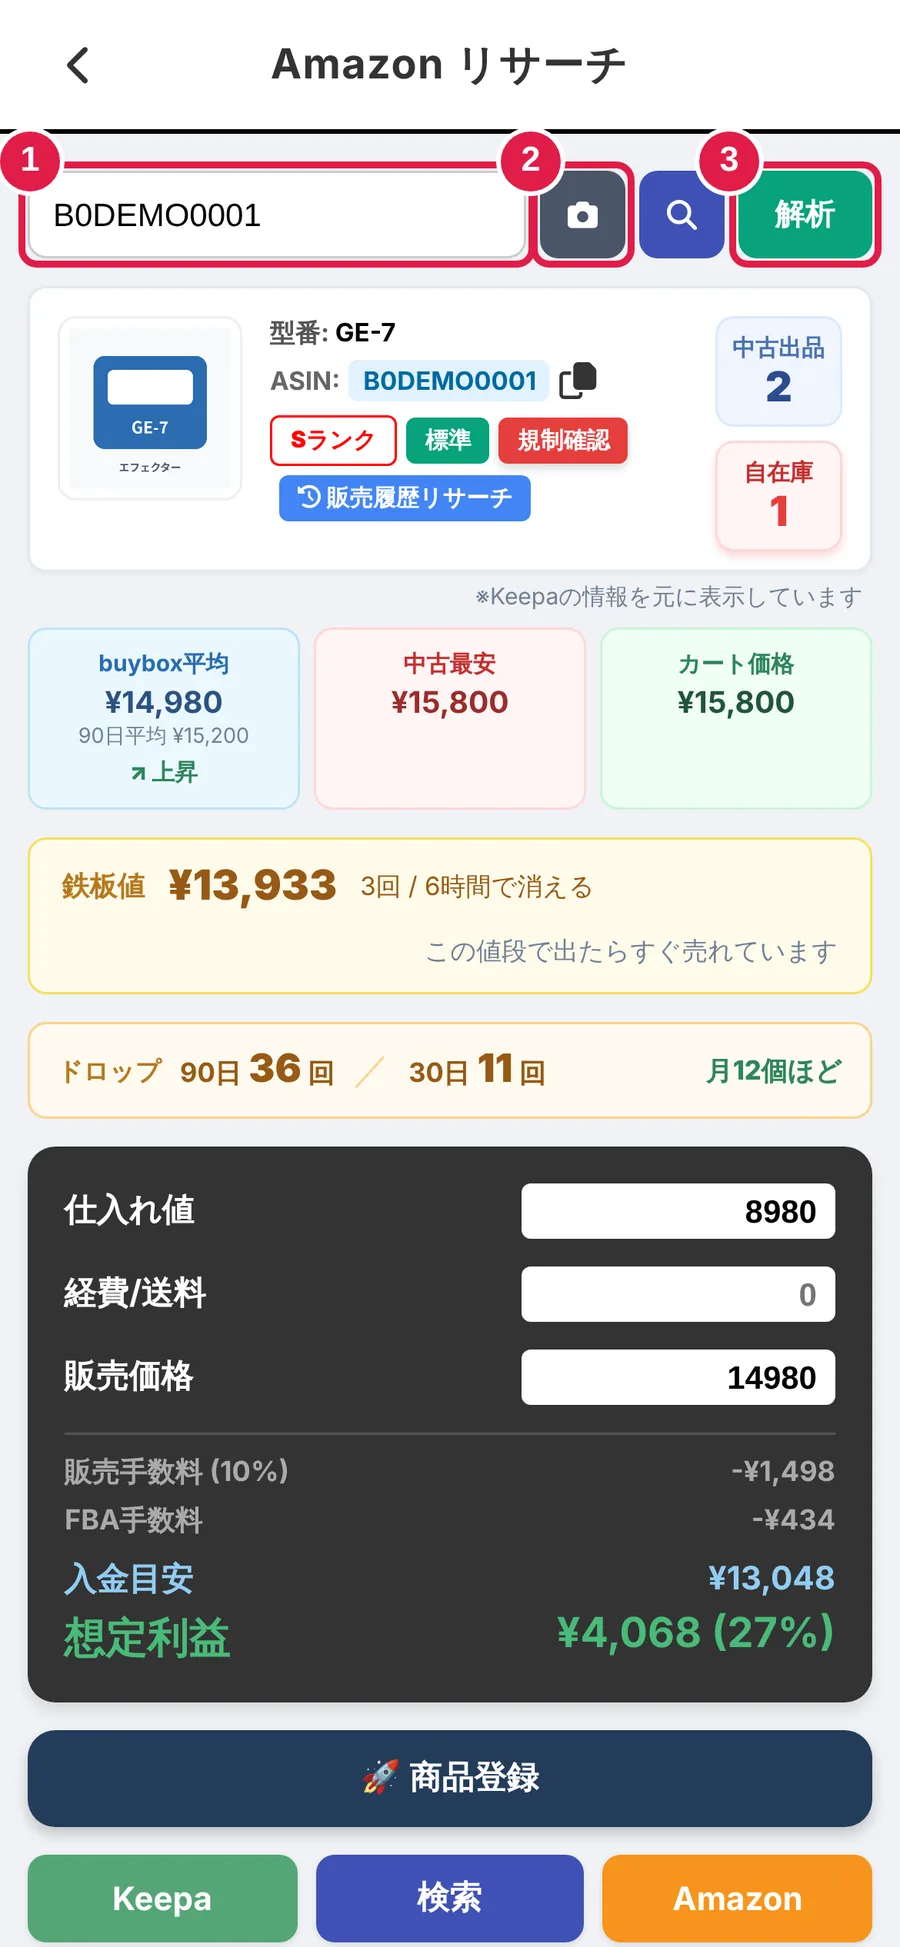
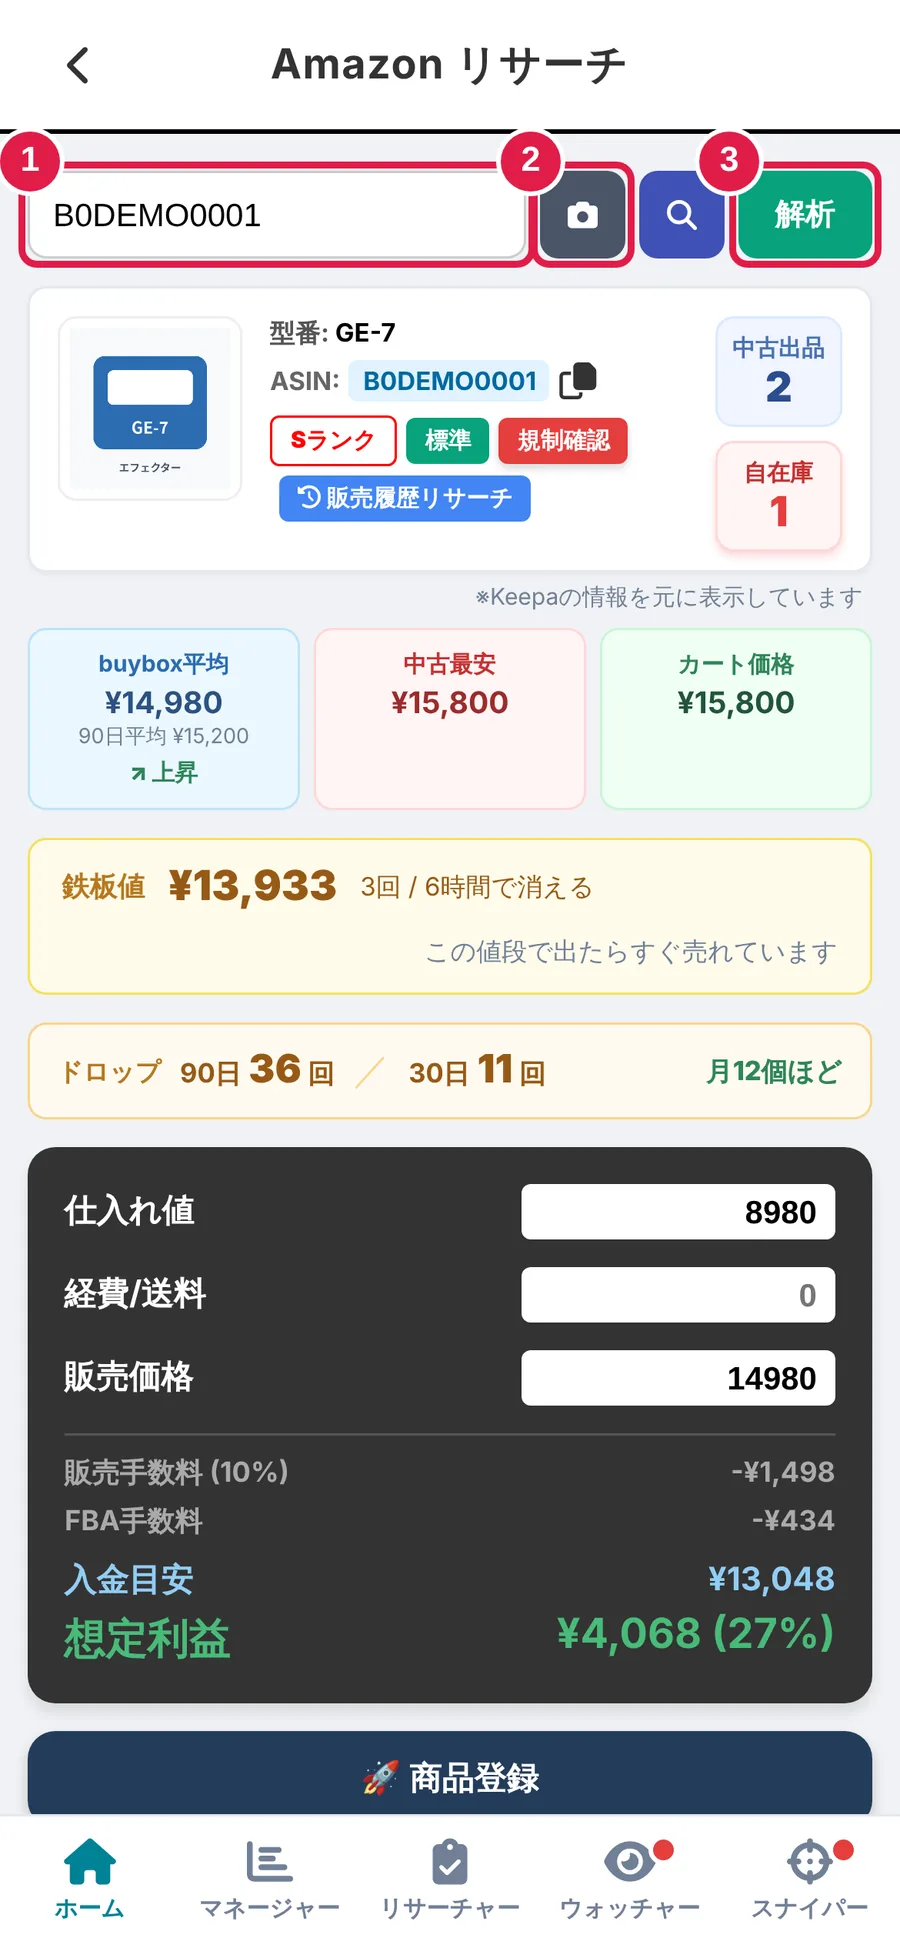
Guide: dark mode, mobile bottom tabs, sniper badge, auto update, exclude words note
Claude-Session: https://claude.ai/code/session_01WmZNE198onnQKDa5yZ2dgx

Changed region(s): [[0.0311, 0.9245, 0.9956, 1.0]]

diff --git a/guide.html b/guide.html
@@ -220,6 +220,7 @@ h3.sub { font-size: 1.15em; margin-top: 22px; }
           <li><span class="n">2</span><div><b>Keepa の API キー</b>。Keepaのサイトにログインして、上のメニュー「Data」→「API」で見られます。</div></li>
           <li><span class="n">3</span><div><b>AmazonセラーID</b>。セラーセントラルの出品者ID（Aから始まる英数字）です。</div></li>
           <li><span class="n">4</span><div><b>「設定を保存」</b>を押します。</div></li>
+          <li><span class="n">5</span><div><b>🌙 ダークモード</b>：チェックすると、画面が目にやさしい暗い色になります。押した時点で切り替わり、その端末が覚えます（パソコンとスマホは別々に切り替えます）。</div></li>
         </ol>
         <p class="tip">あとから直すときは、ホーム左上の⚙で開きます。同じ画面の「プラン変更・解約・お支払い状況の確認はこちら」から、ご契約の手続きができます（<a href="#contract">ご契約について</a>）。</p>
       </div>
@@ -236,6 +237,7 @@ h3.sub { font-size: 1.15em; margin-top: 22px; }
           <li><span class="n">2</span><div><b>Keepa の API キー</b></div></li>
           <li><span class="n">3</span><div><b>AmazonセラーID</b></div></li>
           <li><span class="n">4</span><div><b>「設定を保存」</b></div></li>
+          <li><span class="n">5</span><div><b>🌙 ダークモード</b>（お好みで）</div></li>
         </ol>
         <p class="tip">「🔎 検索ボタンの行き先」は、スマホで検索ボタンを押したときに開くサイトです。Googleのアプリに飛ばされるのがいやな時は、BingかDuckDuckGoにします。「🔔 スマホに通知を送る許可をする」を押すと、巡回で見つかった商品をスマホに通知できます。</p>
       </div>
@@ -260,8 +262,9 @@ h3.sub { font-size: 1.15em; margin-top: 22px; }
       <figure class="shot"><a href="guide_img/sp_home.webp" target="_blank"><img src="guide_img/sp_home.webp" alt="スマホ版のホーム" loading="lazy"></a><figcaption>ホーム（スマホ版）</figcaption></figure>
       <div class="text">
         <h3>スマホ版のホーム</h3>
-        <p>番号はパソコン版と同じです。スマホ版は上のタブが「概要・仕入・販売・資金・在庫」の5つで、カードの支払い予測は「資金」、在庫の金額は「在庫」タブにあります。右端の「︿」で上の段をたためます。</p>
-        <p class="tip">ホーム以外の画面は、左上の「‹」か、画面を右へスワイプで戻れます。</p>
+        <p>番号はパソコン版と同じです。スマホ版は<b>画面の一番下のタブ</b>で「ホーム・マネージャー・リサーチャー・ウォッチャー・スナイパー」をいつでも行き来できます（4・5は下のタブです）。ホームのボタンは、Amazon リサーチ・巡回進捗パネル・実行予約・実行ログの4つです。</p>
+        <p>上の段のタブは「概要・仕入・販売・資金・在庫」の5つで、カードの支払い予測は「資金」、在庫の金額は「在庫」タブにあります。</p>
+        <p class="tip">ホーム以外の画面からは、左上の「‹」、下のタブの「ホーム」、画面を右へスワイプ、のどれでも戻れます。</p>
       </div>
     </div>
 
@@ -511,10 +514,11 @@ h3.sub { font-size: 1.15em; margin-top: 22px; }
       <figure class="shot"><a href="guide_img/sp_watcher.webp" target="_blank"><img src="guide_img/sp_watcher.webp" alt="スマホ版のWatcher" loading="lazy"></a><figcaption>スマホ版の Watcher</figcaption></figure>
       <div class="text">
         <h3>外出先ではスマホで</h3>
-        <p>巡回はパソコンで回り、見つかった商品はスマホ版でも同じように見られます。スマホ版のカードは、最初から表が開いた形です。</p>
+        <p>巡回はパソコンで回り、見つかった商品はスマホ版でも同じように見られます。スマホ版は下のタブの「ウォッチャー」（極はとなりの「スナイパー」）から開きます。カードは最初から表が開いた形です。まだ見ていない商品があると、下のタブに赤い点が付きます。</p>
         <ol class="marks">
           <li><span class="n">1</span><div>サイトのタブ。横にすべらせると全サイトが出ます。</div></li>
         </ol>
+        <p class="tip"><span class="pl pl-k">極</span> スマホのアプリのアイコンには、スナイパーでまだ見ていない商品の数が赤い数字で出ます。アプリで商品を見ると減ります。</p>
       </div>
     </div>
 
@@ -564,7 +568,7 @@ h3.sub { font-size: 1.15em; margin-top: 22px; }
         <ol class="marks">
           <li><span class="n">1</span><div><b>目標利益率</b>。この率が取れる値段を「仕入値」として計算します。候補が少なすぎたら下げ、多すぎたら上げます。</div></li>
           <li><span class="n">2</span><div><b>仕入値の基準</b>：【A】90日平均／【B】buybox平均／【C】鉄板値。巡回の検索URLの上限値段にも使われます。</div></li>
-          <li><span class="n">3</span><div><b>除外ワード</b>（ジャンク・部品取り など）。巡回の検索にも付きます。</div></li>
+          <li><span class="n">3</span><div><b>除外ワード</b>（ジャンク・部品取り など）。巡回の検索にも付きます。言葉だけをスペースで区切って入れます（頭の「-」は要りません）。</div></li>
           <li><span class="n">4</span><div><b>ターゲットカテゴリー</b>。扱いたいジャンルにチェックします。</div></li>
         </ol>
         <p class="tip">ほかのタブ：「バッチ設定」（1回に調べる件数）、「ランク選別」（残すランク・値段の幅）、「セラー抽出」（候補にするセラーの評価数・在庫数）。最後に「この内容で保存」。</p>
@@ -646,6 +650,7 @@ h3.sub { font-size: 1.15em; margin-top: 22px; }
       <details><summary>画面を開いても何も出ない</summary><p>⚙アプリ基本設定に、ライセンスキー・Keepa APIキー・AmazonセラーIDの3つが入っているか確かめてください。3つそろわないと動きません。</p></details>
       <details><summary>「🔒 ○○は ○○ の機能です」と出る</summary><p>いまのプランに入っていない機能です。こわれているわけではなく、データも消えていません。使いたいときは<a href="#contract">プランを変える</a>と使えるようになります。</p></details>
       <details><summary>巡回がまったく動かない</summary><p>順に確かめてください。① 仕入れリストに商品があり、巡回進捗パネルで「URL同期」をしたか ② 拡張機能にライセンスキーを貼って保存したか ③ パソコンのChromeで「パソコン版アプリ」のページを開いているか ④ 拡張の設定で、巡回するサイトにチェックが入っているか ⑤ 実行予約で「自動巡回」がオンか（ウォッチャーは予約の時刻にしか回りません） ⑥ パソコンが寝ていないか。</p></details>
+      <details><summary>古い画面のまま・新しくなった所が出てこない</summary><p>アプリを開くと、新しい版があれば数秒で自動で切り替わります。切り替わらないときは、スマホはアプリを一度閉じて開き直し、パソコンは Ctrl + F5 で読み込み直してください。</p></details>
       <details><summary>商品があるのに「なし」になる</summary><p>拡張機能の設定で「判定開始までの待ち時間」を1〜2秒増やしてください。</p></details>
       <details><summary>関係ない商品ばかり見つかる</summary><p>仕入れリストの「編集」で、検索キーワードにメーカー名を足してください。直したら巡回進捗パネルの「URL同期」を押します。</p></details>
       <details><summary>リサーチリストに候補が出てこない／多すぎる</summary><p>出てこないときは、リサーチャー設定の目標利益率を下げて、実行ログに赤い行がないか見てください。多すぎるときは、目標利益率を上げるか、承認するセラーを減らしてください。</p></details>
